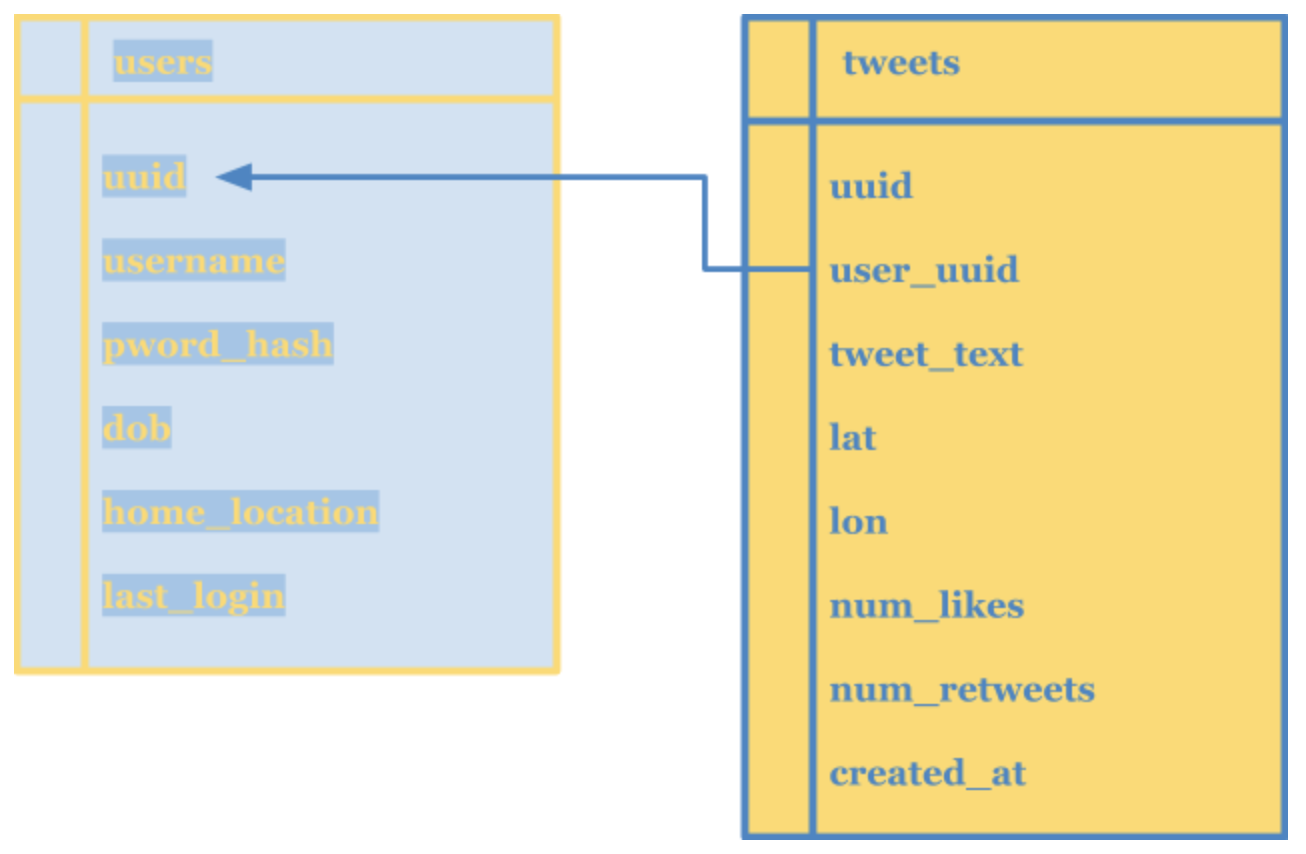
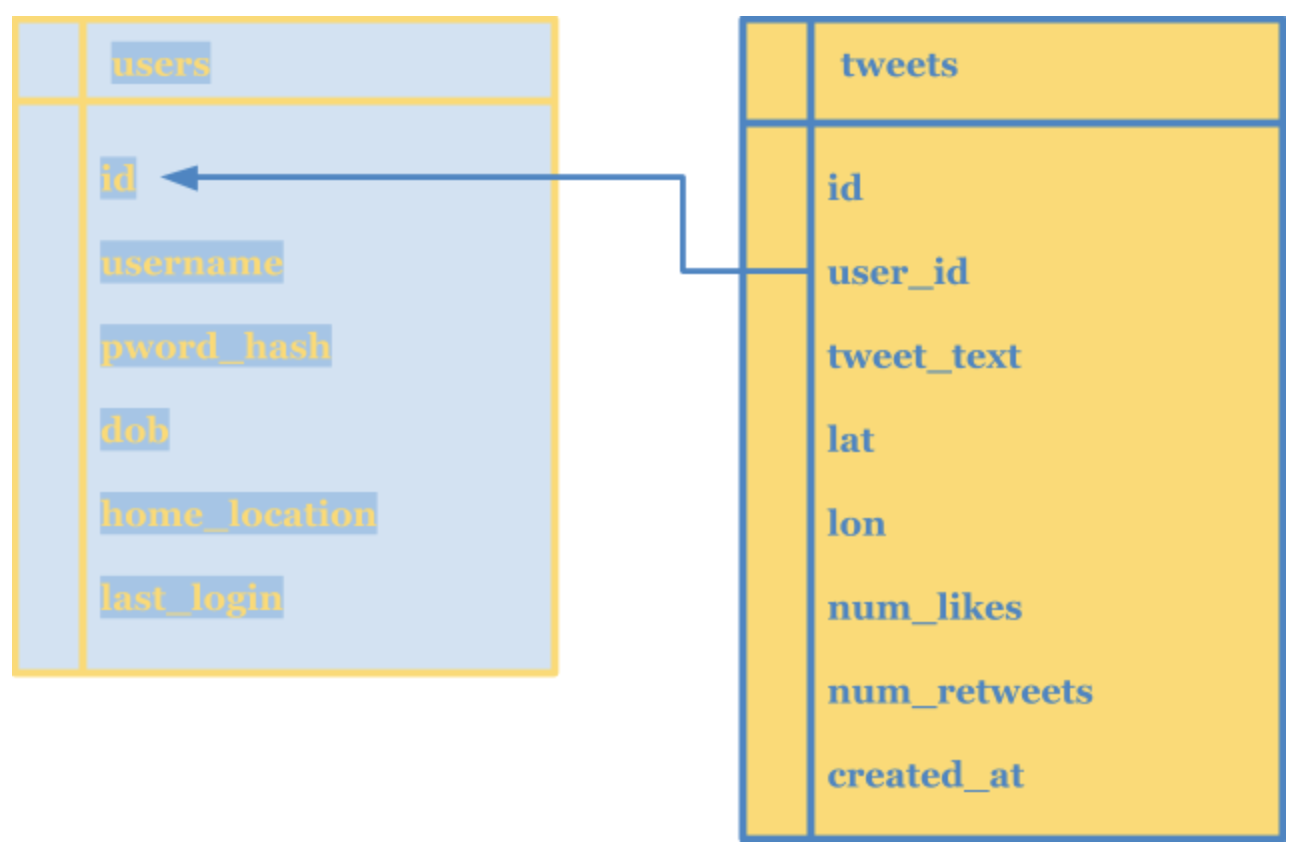
Fix images per schema updates

diff --git a/README.md b/README.md
@@ -51,10 +51,11 @@ query {
   users {
     id
     username
+    tweets
   },
   tweets {
     id
-    user_id
+    user { username }
     text
   }
 }
@@ -73,7 +74,7 @@ mutation {
 }
 ```
 
-*NOTE: Because a user must be logged in to post a message associated with their account, and existing in-memory users do not have passwords saved (would be hashed), please first register, then log in, and note what your user_id is in order to post a tweet.*
+*NOTE: Because a user must be logged in to post a message associated with their account, and existing in-memory users do not have passwords saved (would be hashed), please first register, then log in, and note what your user.id is in order to post a tweet.*
 
 <br>
 
